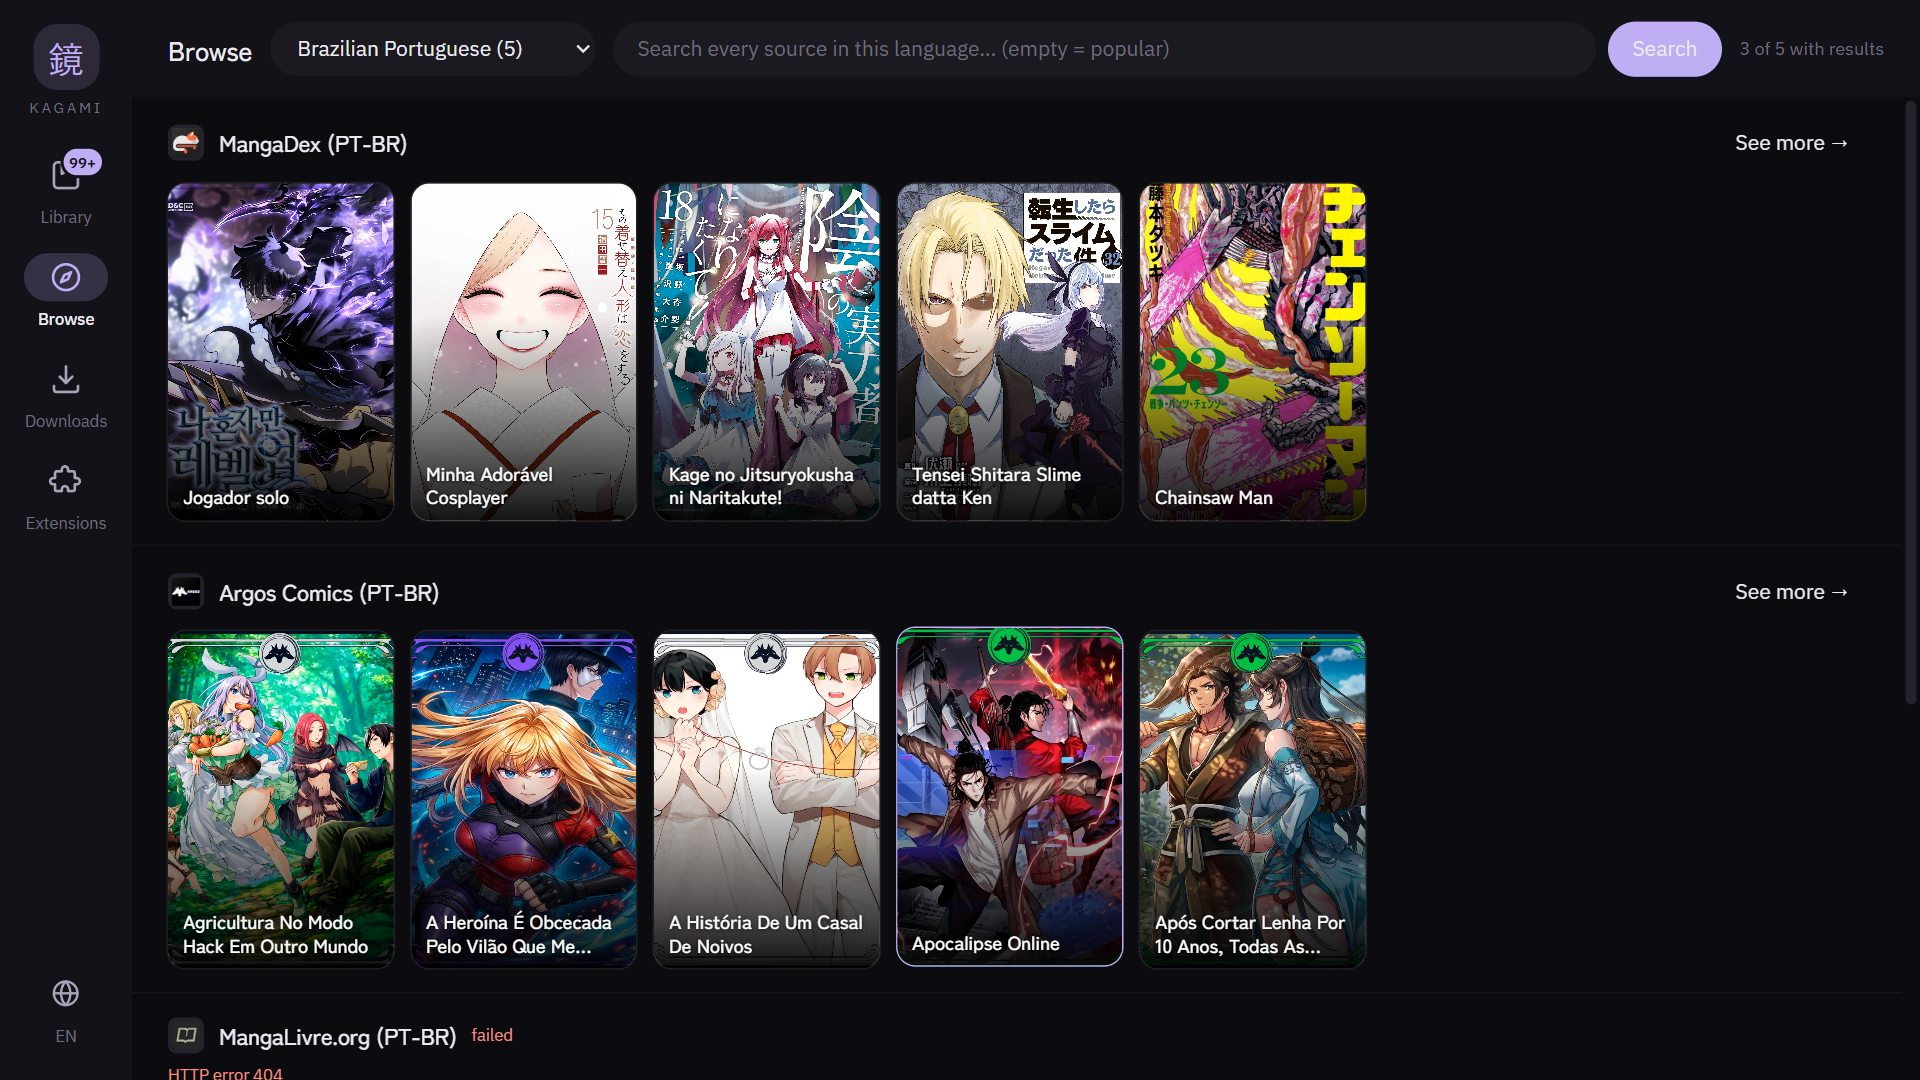
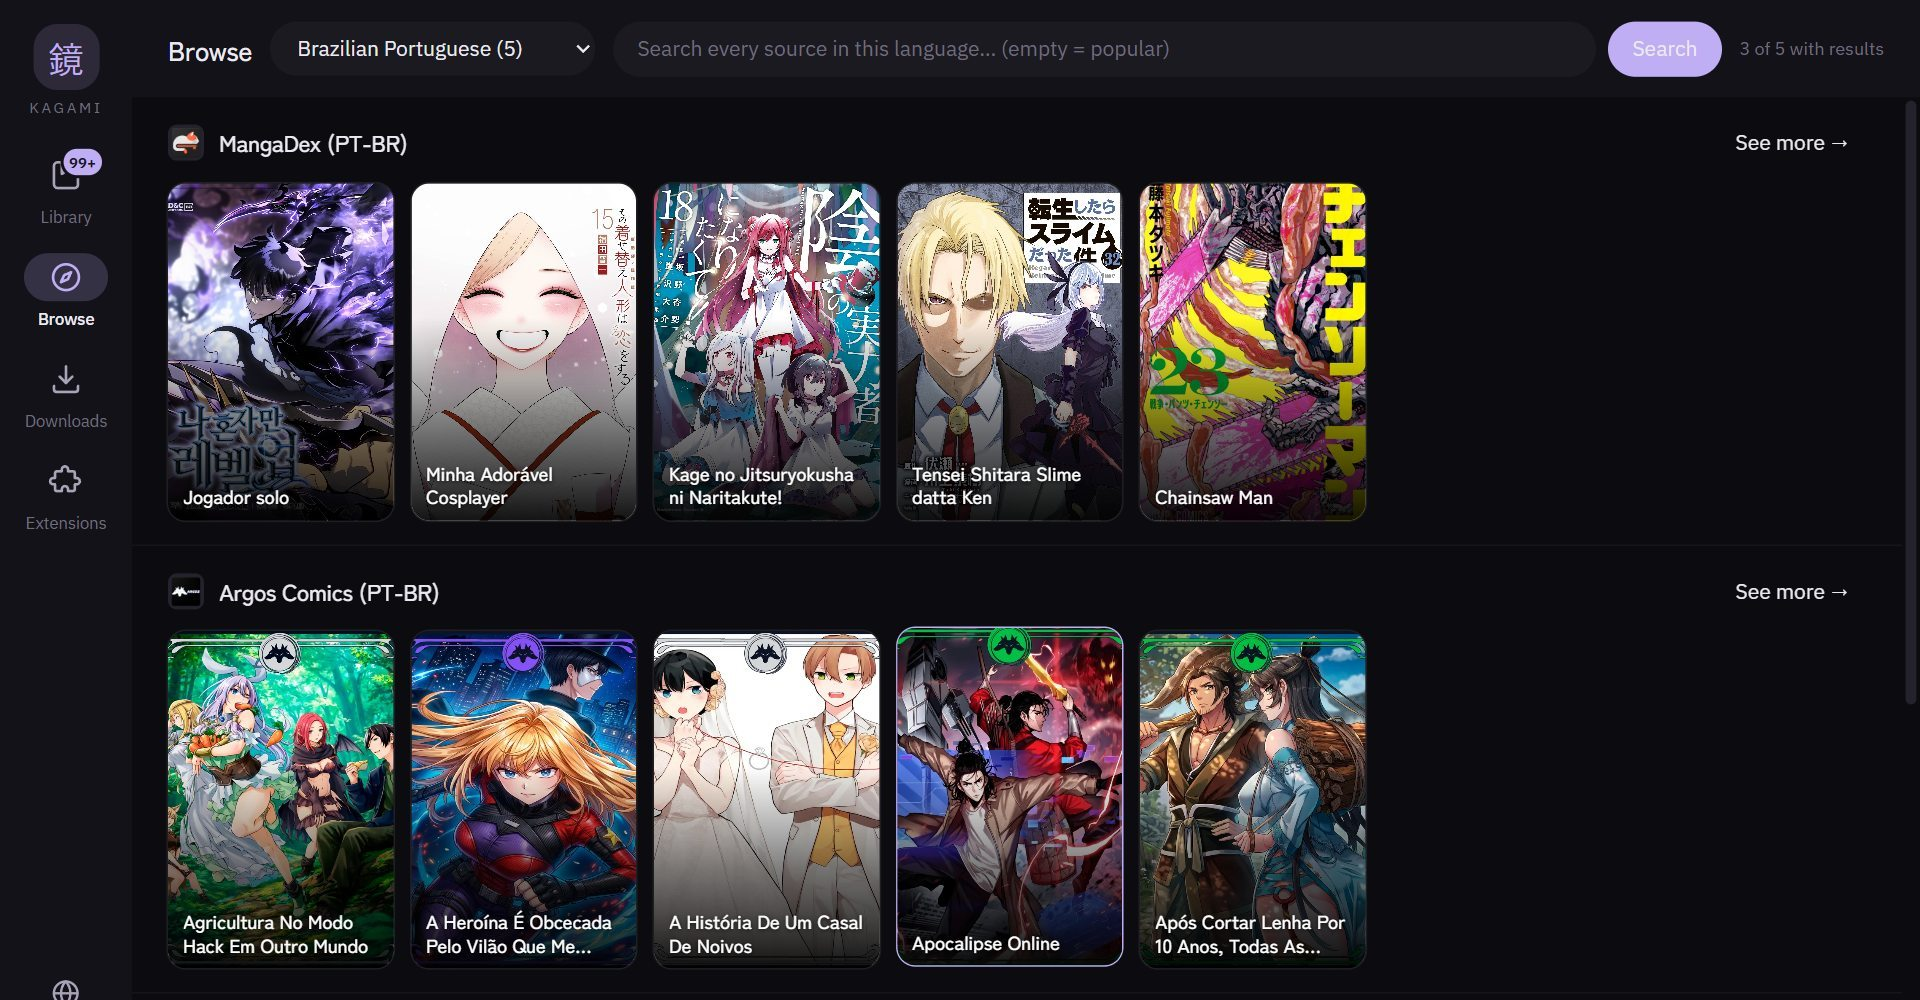
Keep a failed source out of the hero image
The Browse capture ran with MangaLivre returning a 404, and the row sat in
red right at the crop line -- the first thing a visitor saw of the product
was an error. Handling a dead source gracefully is worth showing somewhere;
the top of the landing page is not that somewhere.

diff --git a/docs/index.html b/docs/index.html
@@ -443,7 +443,7 @@
         <i aria-hidden="true"></i><i aria-hidden="true"></i><i aria-hidden="true"></i>
         <span>Kagami</span>
       </div>
-      <img src="shots/browse.jpg" alt="Kagami's Browse screen, showing rows of manga covers grouped by source." width="1920" height="1080">
+      <img src="shots/browse.jpg" alt="Kagami's Browse screen, showing rows of manga covers grouped by source." width="1920" height="1000">
     </div>
   </div>
 </header>
